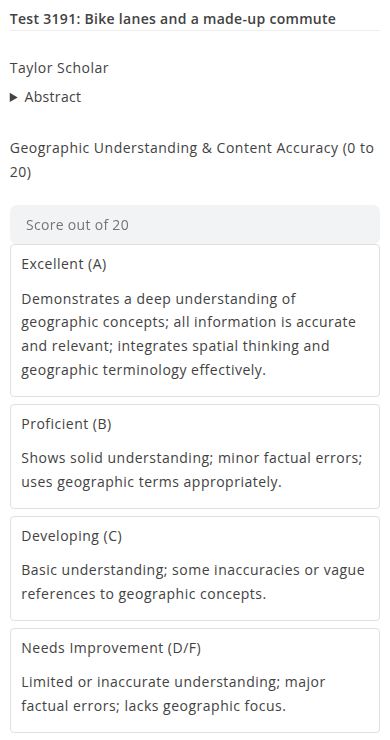
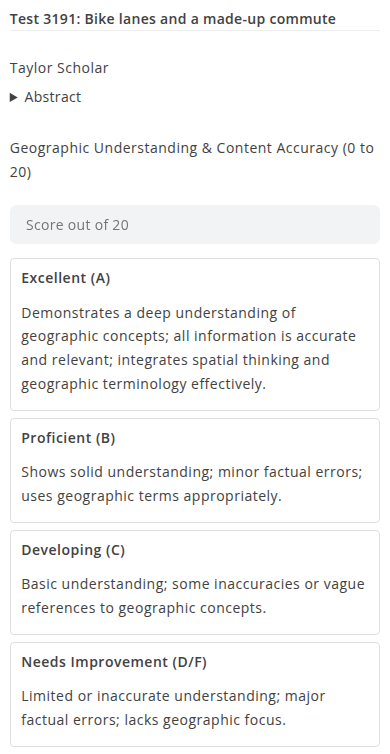
docs(gisday): Retake the judging page's level box images after the fixed counts, gap and bold names (#3191)
The after images at 1280, 768 and 390 px, taken again on 917b94421: four boxes across at 1280, two across in two rows at
768 (was three and one), one per row at 390, with the gap under the score box and the level names bold. The tablet
image's description now says two across.

diff --git a/docs/releases/unreleased/3191-rubric-boxes.md b/docs/releases/unreleased/3191-rubric-boxes.md
@@ -20,5 +20,5 @@ standard research presentation rubric, at 1280 px unless it says otherwise.
 | --- | --- |
 | Before: a criterion with its Levels opened, one under another | ![A made-up presentation entry's first criterion, Geographic Understanding and Content Accuracy, 0 to 20, with Levels opened: Excellent, Proficient, Developing and Needs Improvement, each with its description, one under another](../screenshots/3191-rubric-boxes/before-levels.png) |
 | After: the same criterion, its four levels as boxes side by side | ![The same criterion with its four levels as four boxes in a row under the score box, each with its label and description](../screenshots/3191-rubric-boxes/after-levels.png) |
-| After: at 768 px, a tablet's width | ![The same criterion at 768 px: three level boxes in the first row and Needs Improvement in a second](../screenshots/3191-rubric-boxes/after-levels-tablet.png) |
+| After: at 768 px, a tablet's width | ![The same criterion at 768 px: two level boxes in each of two rows, Excellent and Proficient above Developing and Needs Improvement](../screenshots/3191-rubric-boxes/after-levels-tablet.png) |
 | After: at 390 px, a phone's width, one box per row | ![The same criterion at 390 px: the four level boxes one under another, each the card's full width](../screenshots/3191-rubric-boxes/after-levels-phone.png) |
